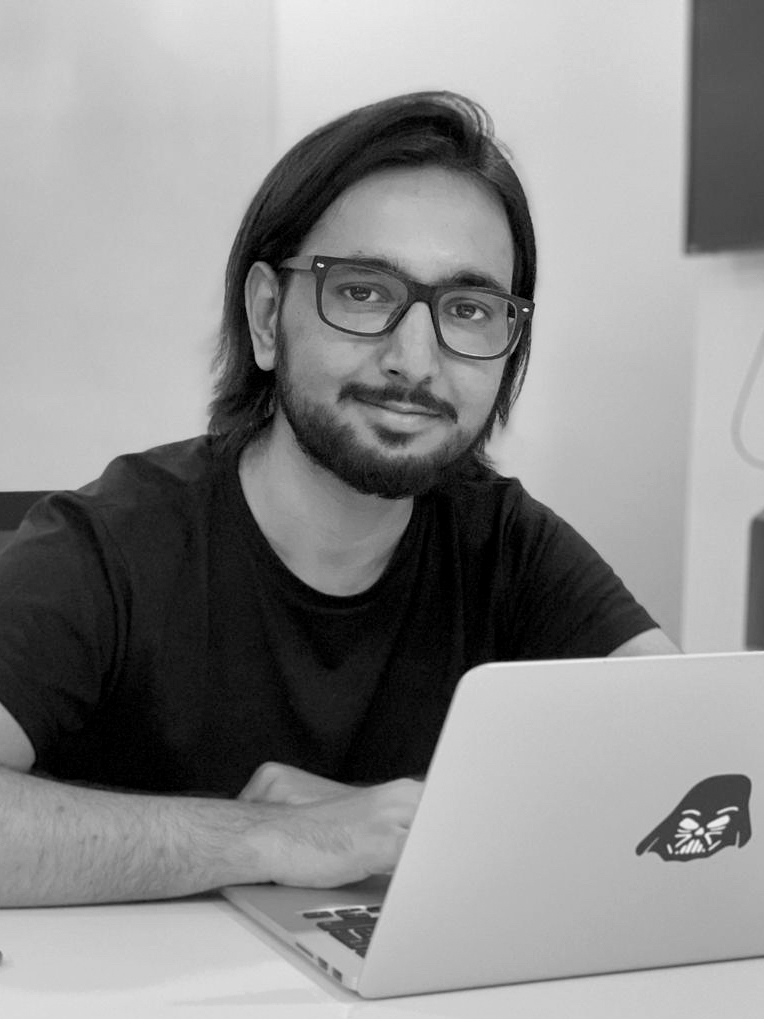
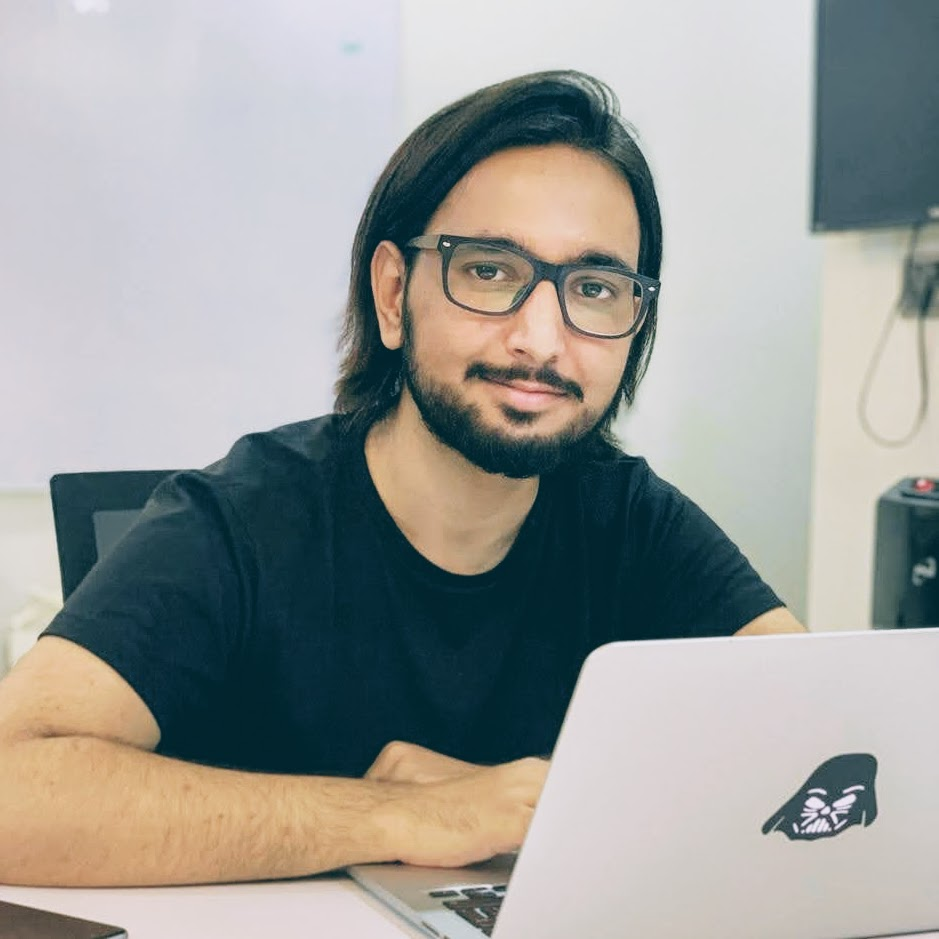
img change

diff --git a/index.html b/index.html
@@ -81,7 +81,7 @@
       </div>
 
       <div class="col-md-4 offset-md-3 mb40">
-        <img src="assets/images/masna.jpg" alt="masna photo" class="" width="100%" style="margin-top: -40px;">
+        <img src="assets/images/masna.jpg" alt="masna photo" class="" width="100%" style="margin-top: -40px; border-radius: 1000px">
       </div>
 
     </div>
@@ -101,7 +101,7 @@
 
       <section class="pt0">
 
-        <h4 class="mb24">
+        <h4 class="mb24 lazyscroll">
           Services
         </h4>
 

diff --git a/assets/css/style.css b/assets/css/style.css
@@ -423,8 +423,8 @@ small {
 }
 
 h1 {
-    font-size: 40px;
-    line-height: 44px;
+    font-size: 44px;
+    line-height: 48px;
     color: #f0aa75;
     font-weight: 400;
     letter-spacing: -1px;
@@ -537,7 +537,7 @@ header#home {
     /* overflow-x: hidden; */
     /* min-height: 750px; */
     /* margin-bottom: -150px; */
-    padding-bottom: 6rem;
+    padding: 10rem 0;
 }
 
 section {
